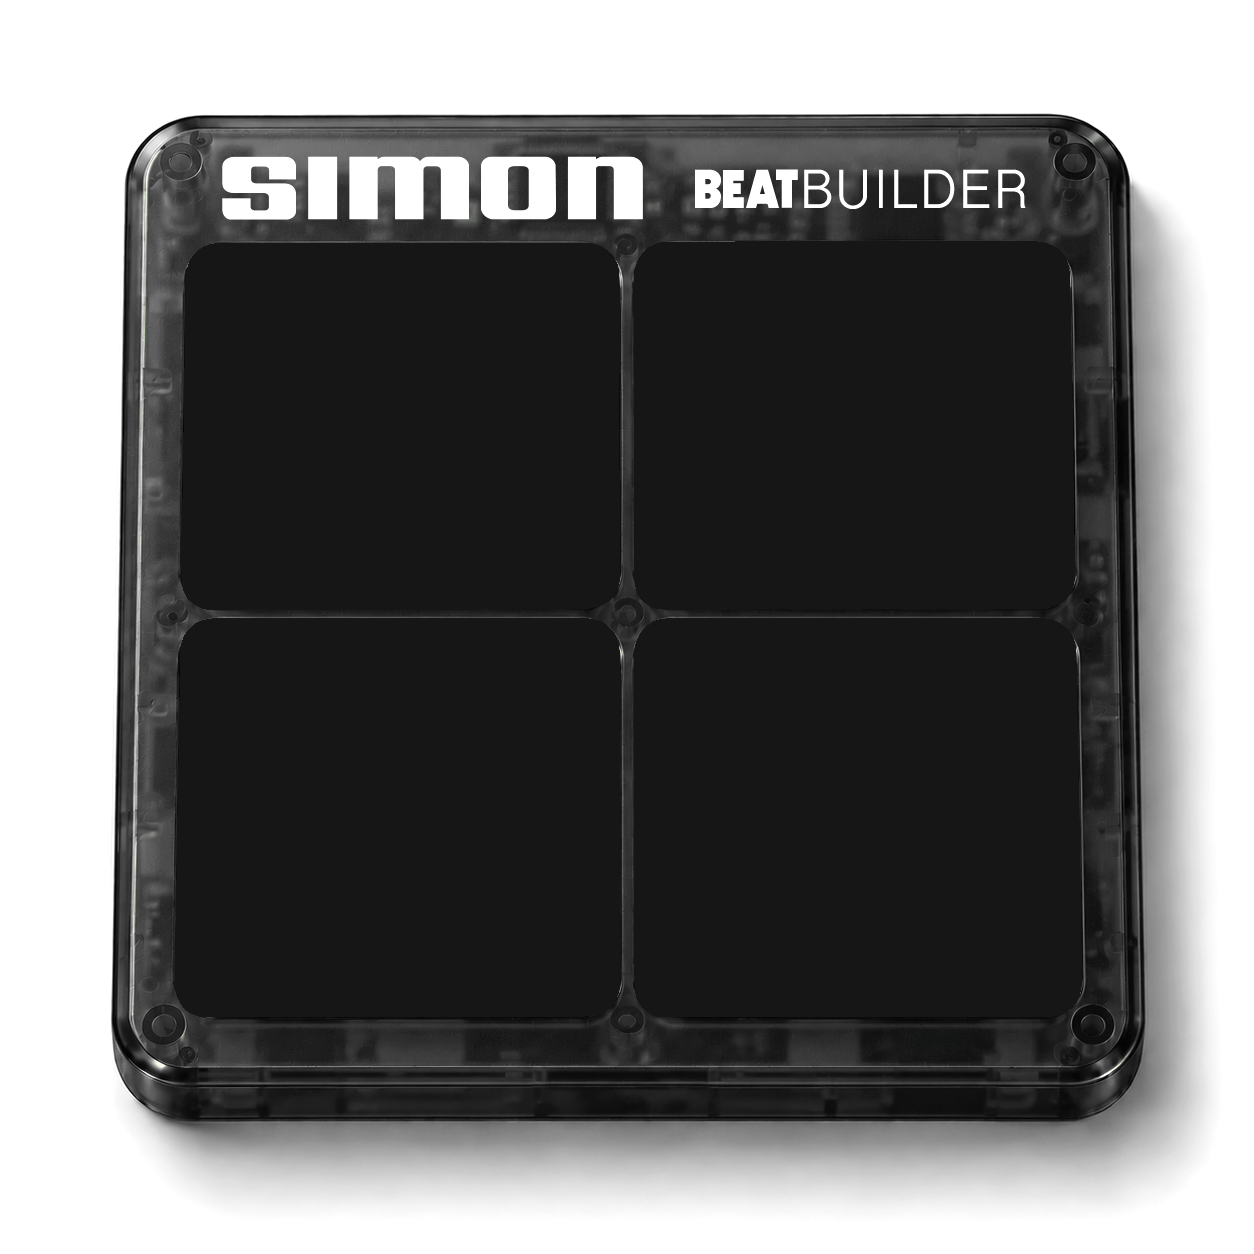
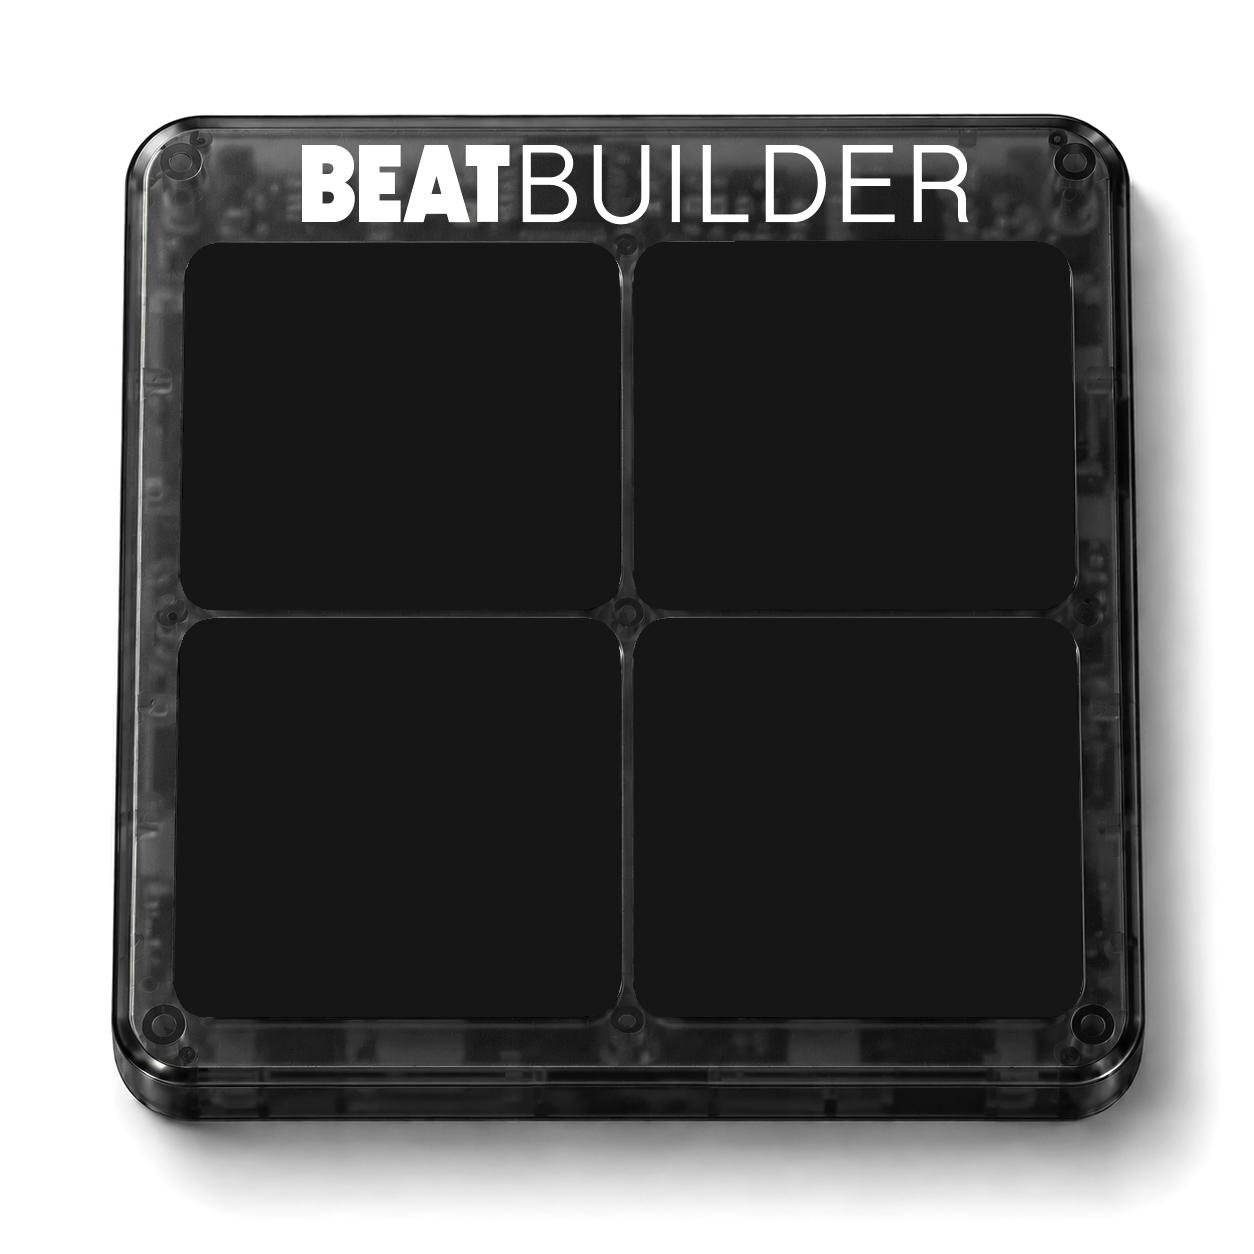
psuh

Changed region(s): [[0.1555, 0.0933, 0.8397, 0.1866]]

diff --git a/tools/make_device.py b/tools/make_device.py
@@ -5,7 +5,7 @@
     assets/images/device.json       where the pads are in those two (pixels), and the color
                                     of the picture's border, which the game's background takes
 
-    python3 tools/make_device.py [picture.png]      (default: assets/images/device_simon.png)
+    python3 tools/make_device.py [picture.png]      (default: assets/images/device_beatbuilder.png)
 
 Needs numpy and Pillow. The picture must have a white or grey background and white pads on a
 body that is dark or colored (the black device.png, the translucent blue device_blue.png).
@@ -16,7 +16,7 @@ from PIL import Image, ImageDraw, ImageFilter
 
 ROOT = os.path.dirname(os.path.dirname(os.path.abspath(__file__)))
 DIR = os.path.join(ROOT, "assets/images")
-SOURCE = "device_simon.png"
+SOURCE = "device_beatbuilder.png"
 LIGHT = 110      # brighter than this (and not colored) is background or pad
 BODY = 70        # darker than this is surely the body (its shadow on the table is lighter)
 COLORED = 36     # so is anything this far from grey (max - min of r g b): a colored body

diff --git a/README.md b/README.md
@@ -85,7 +85,7 @@ if it would come too late. `song.vo_volume` is how loud.
 `howto_2`, `howto_3`, `song_huntin_wabbits`, `watch`, `your_turn`, `perfect`, `nice`, `try_again`, `too_slow` and `keep_going` are recorded
 but not said: the lights say them.
 
-**The board** is the picture of the device, `assets/images/device_simon.png`, table and shadow and
+**The board** is the picture of the device, `assets/images/device_beatbuilder.png`, table and shadow and
 all, with each light tinting its pad in the picture and spilling onto the body round it
 (`layout.device_image`; off = the drawn grey pads on `layout.background`). The screen's
 background takes the color of the picture's border, so the picture has no edge. `python3 tools/make_device.py [picture.png]` cuts a picture
